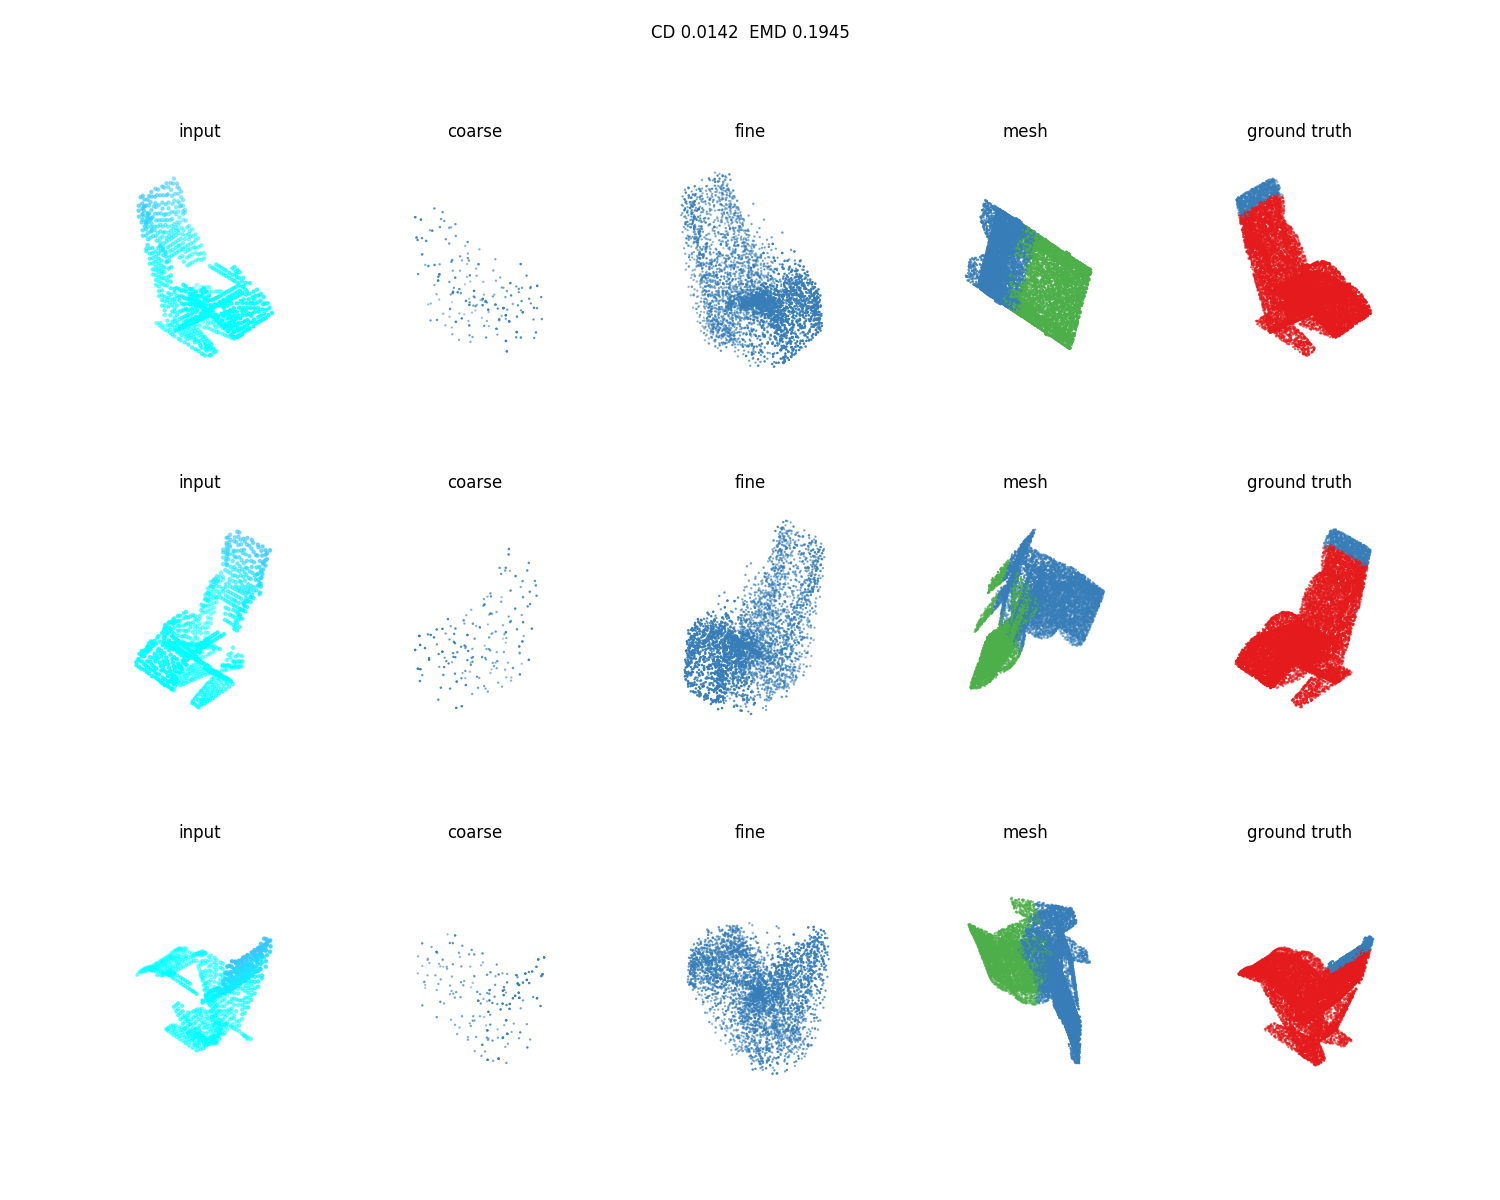
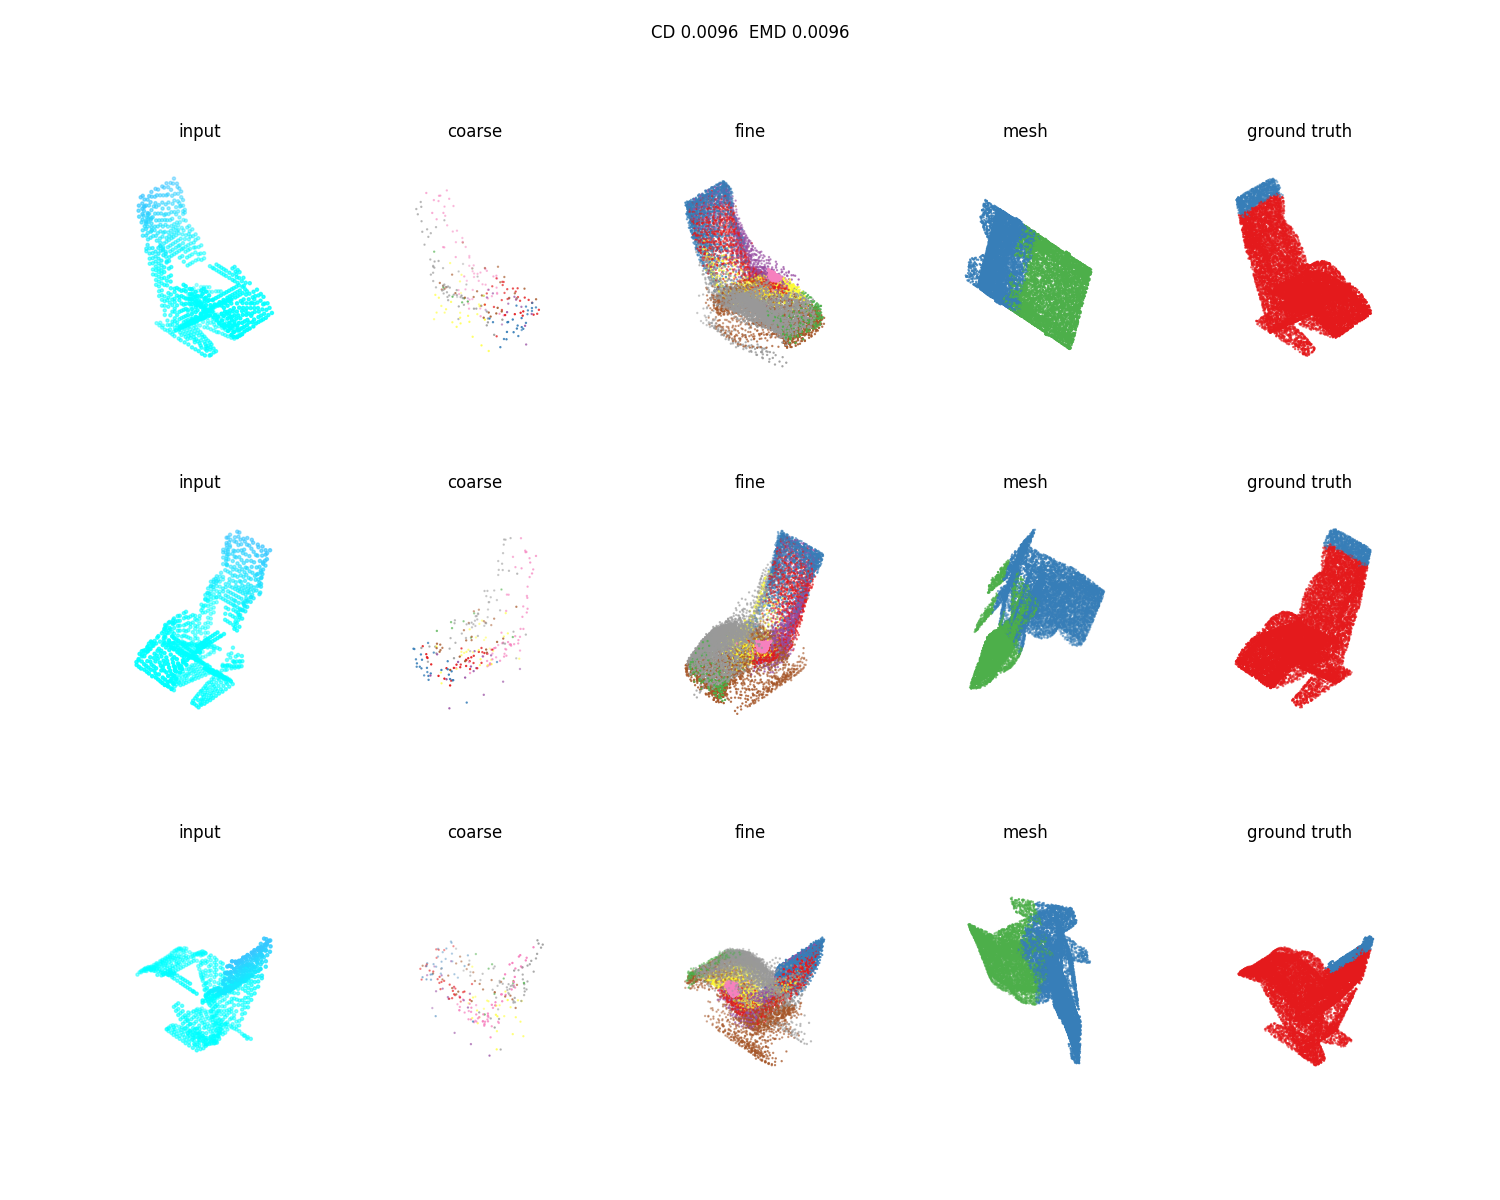
add plots

diff --git a/models/pcn_reg.py b/models/pcn_reg.py
@@ -128,11 +128,12 @@ class Model:
         p_can_feat = tf.nn.softmax(self.canonical[:,:,3:3+self.channels], -1)
         p_coar_samp = tf.reduce_mean(p_coar_feat, [1])
         # p_fine_samp = tf.reduce_mean(p_fine_feat, [1])
-        # entropy = tf.nn.relu(tf.log(self.channels*1.0) + tf.reduce_mean(tf.reduce_sum(p_coar_samp * tf.log(p_coar_samp), [1]), [0]))
+        entropy = tf.nn.relu(tf.log(self.channels*1.0) + tf.reduce_mean(tf.reduce_sum(p_coar_samp * tf.log(p_coar_samp), [1]), [0]))
         # entropy += tf.nn.relu(tf.log(self.channels*1.0) + tf.reduce_mean(tf.reduce_sum(p_fine_samp * tf.log(p_fine_samp), [1]), [0]))
-        entropy = tf.reduce_mean(tf.nn.softmax_cross_entropy_with_logits(labels=p_can_feat, logits=p_coar_feat))
+        entropy += tf.reduce_mean(tf.nn.softmax_cross_entropy_with_logits(labels=p_can_feat, logits=p_coar_feat))
         loss_coarse = chamfer(coarse[:,:,0:3], gt[:,:,0:3])
         loss_coarse += chamfer(self.canonical[:,:,0:3], self.gt_can[:,:,0:3])
+        """
         _, retb, _, retd = tf_nndistance.nn_distance(coarse[:,:,0:3], gt[:,:,0:3])
         for i in range(np.shape(gt)[0]):
             index = tf.expand_dims(retb[i], -1)
@@ -142,10 +143,12 @@ class Model:
                         0.97 * sem_gt * tf.log(1e-6 + sem_feat) + (1 - 0.97) *
                         (1 - sem_gt) * tf.log(1e-6 + 1 - sem_feat), [1]))
             loss_coarse += 0.01 * loss_sem_coarse
+        """
         add_train_summary('train/coarse_loss', loss_coarse)
         update_coarse = add_valid_summary('valid/coarse_loss', loss_coarse)
 
         loss_fine = chamfer(fine[:,:,0:3], gt[:,:,0:3])
+        """
         _, retb, _, retd = tf_nndistance.nn_distance(fine[:,:,0:3], gt[:,:,0:3])
         for i in range(np.shape(gt)[0]):
             index = tf.expand_dims(retb[i], -1)
@@ -155,10 +158,11 @@ class Model:
                         0.97 * sem_gt * tf.log(1e-6 + sem_feat) + (1 - 0.97) *
                         (1 - sem_gt) * tf.log(1e-6 + 1 - sem_feat), [1]))
             loss_fine += 0.01 * loss_sem_fine
+        """
         add_train_summary('train/fine_loss', loss_fine)
         update_fine = add_valid_summary('valid/fine_loss', loss_fine)
 
-        loss = alpha * loss_coarse + loss_fine # + entropy
+        loss = alpha * loss_coarse + loss_fine + entropy
         # loss = loss_coarse + entropy
         add_train_summary('train/loss', loss)
         update_loss = add_valid_summary('valid/loss', loss)

diff --git a/test_shapenet.py b/test_shapenet.py
@@ -99,7 +99,8 @@ def test(args):
         completion2[0][:, (3 + args.num_channel):] *= 0
         mesh_out[0][:, (3 + args.num_channel):] *= 0
         total_time += time.time() - start
-        cd, emd = sess.run([cd_op, emd_op],
+        # cd, emd = sess.run([cd_op, emd_op],
+        cd, emd = sess.run([cd_op, cd_op],
                            feed_dict={
                                output: completion2,
                                gt: [complete]

diff --git a/tf_util.py b/tf_util.py
@@ -37,7 +37,7 @@ def mlp_conv_act(inputs, layer_dims, act_dim=8, bn=None, bn_params=None):
     for i, num_out_channel in enumerate(layer_dims[:-1]):
         inputs = tf.contrib.layers.conv1d(
             inputs, num_out_channel,
-            kernel_size=1,
+            kernel_size=8,
             normalizer_fn=bn,
             normalizer_params=bn_params,
             scope='conv_%d' % i)
